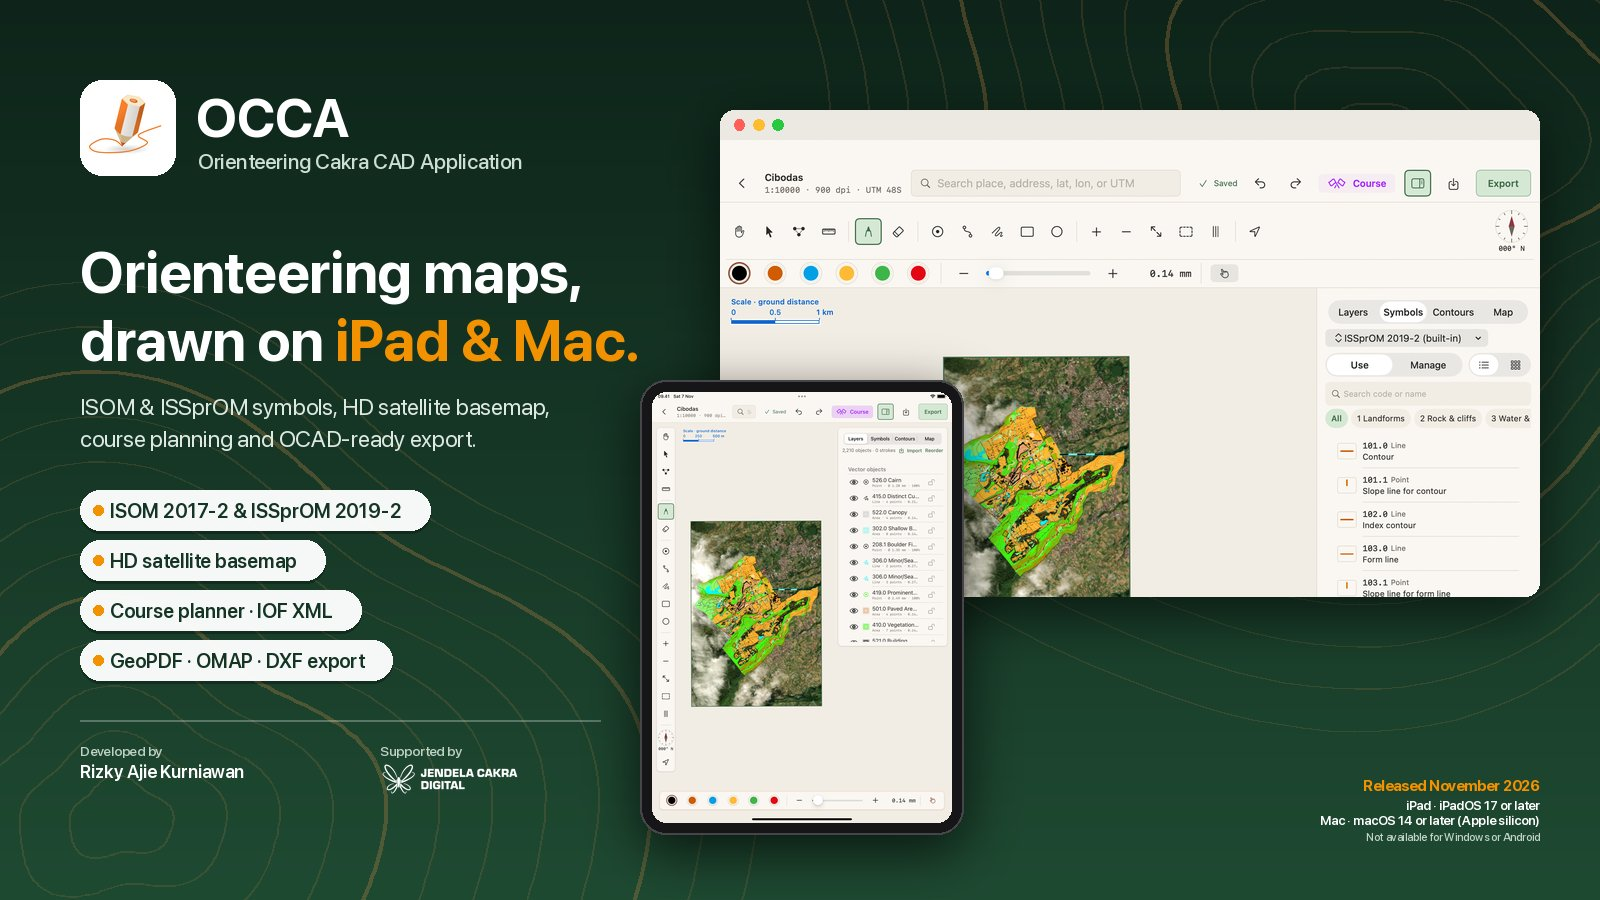
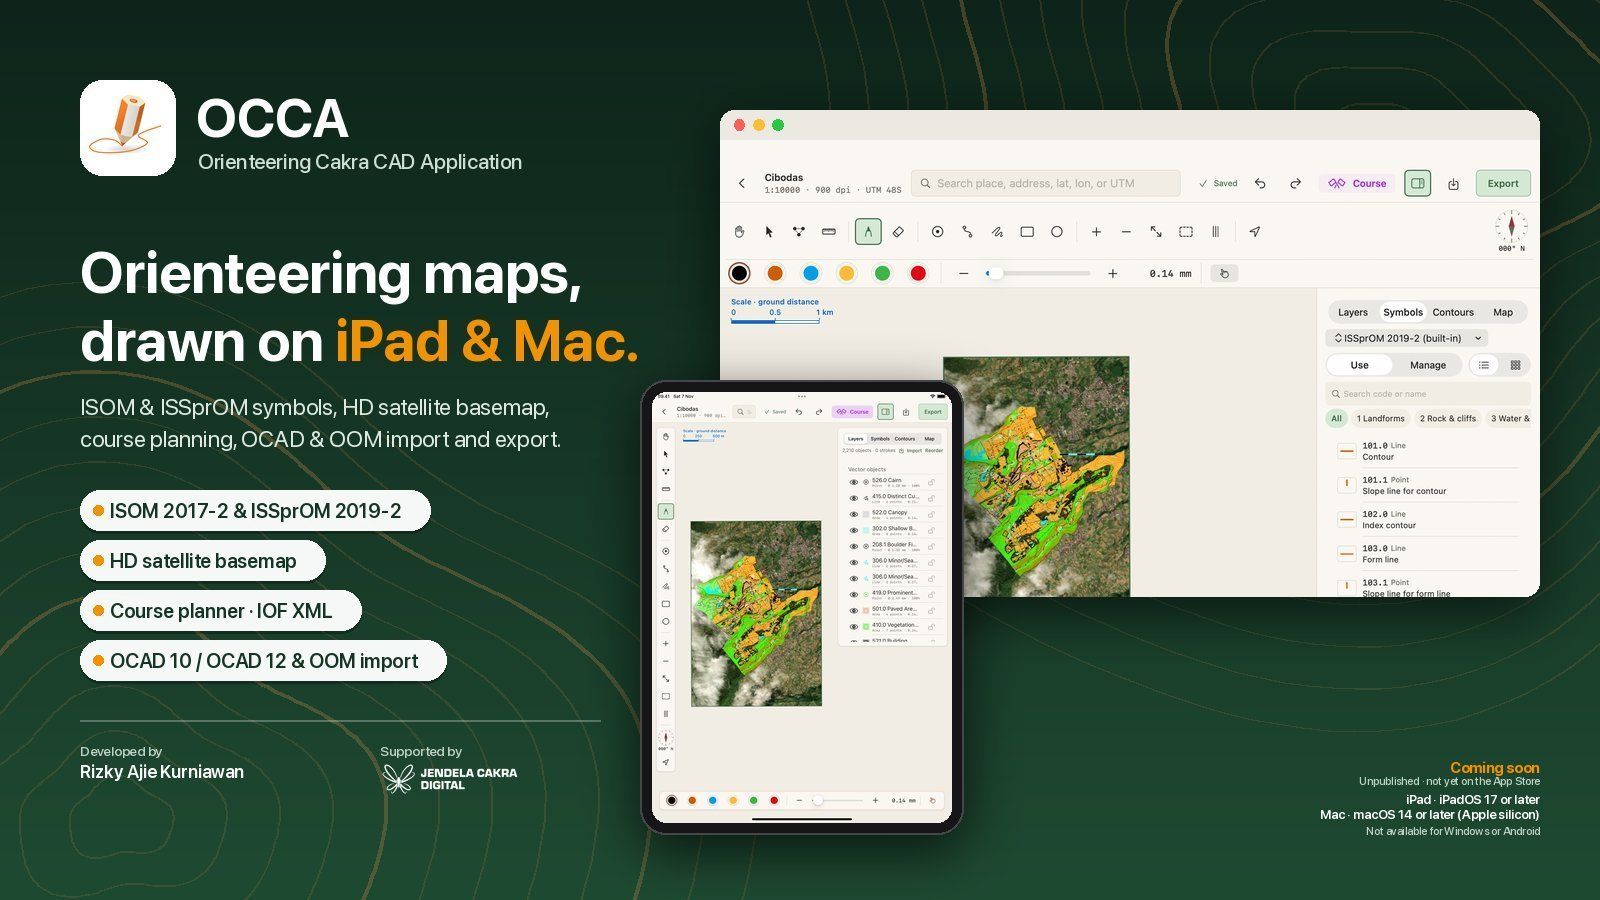
update

Changed region(s): [[0.8125, 0.84, 0.9688, 0.9333], [0.0625, 0.7156, 0.2812, 0.7778], [0.1562, 0.4667, 0.3438, 0.4978]]

diff --git a/Packages/CakraCore/Sources/CakraCore/Support/AppInfo.swift b/Packages/CakraCore/Sources/CakraCore/Support/AppInfo.swift
@@ -14,7 +14,9 @@ public enum AppInfo {
     public static let supporterURL = "https://jcdigital.co.id"
     public static let copyright = "© 2026 Rizky Ajie Kurniawan. All rights reserved."
     /// Release and supported platforms (About screen, README).
-    public static let releaseDate = "November 2026"
+    /// Not released yet: "Coming soon", unpublished (not on the App Store).
+    public static let releaseStatus = "Coming soon"
+    public static let publication = "Unpublished — not yet available on the App Store."
     public static let supportedPlatforms = "iPad with iPadOS 17 or later · Mac with Apple silicon and macOS 14 Sonoma or later"
     public static let unsupportedPlatforms = "Not available for Windows, Android, or iPhone."
     /// File compatibility (About screen, README): what OCCA opens and writes.

diff --git a/CakraPencil/Projects/AboutView.swift b/CakraPencil/Projects/AboutView.swift
@@ -68,7 +68,8 @@ struct AboutView: View {
                     card {
                         VStack(alignment: .leading, spacing: CP.Space.s) {
                             heading("Release and platforms")
-                            creditRow("Released", AppInfo.releaseDate)
+                            creditRow("Release", AppInfo.releaseStatus)
+                            notice(AppInfo.publication)
                             creditRow("Supported on", AppInfo.supportedPlatforms)
                             notice(AppInfo.unsupportedPlatforms)
                         }

diff --git a/README.md b/README.md
@@ -11,7 +11,7 @@ files that open on both iPad and Mac.
 > Former names: Cakra Pencil, then COCA. The repo, Xcode target, Swift module, and bundle id (`id.cakrapencil.app`)
 > are unchanged; old `.coca` and `.cpencil` files still open.
 
-- **Release:** November 2026 (version 0.1.0).
+- **Release:** Coming soon — **unpublished**, not yet available on the App Store (current version 0.1.0).
 - **Supported:** iPad with **iPadOS 17 or later** (Apple Pencil optional) and Mac with **Apple silicon and macOS 14
   Sonoma or later** (via Mac Catalyst, "Optimize for Mac" interface). Features are the same on both devices; the
   layout adapts to the device (see [iPad and Mac](#ipad-and-mac)).
